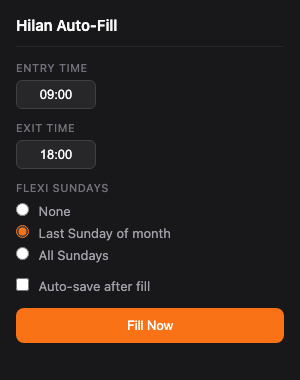
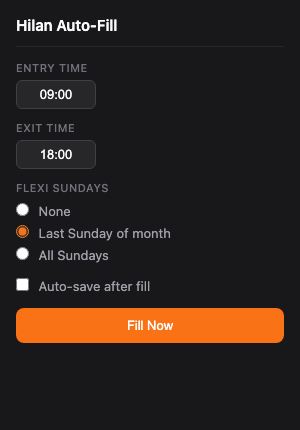
docs: fix screenshot alignment — equal dimensions, smaller display

diff --git a/README.md b/README.md
@@ -3,9 +3,9 @@
 A Chrome extension that auto-fills the Hilan attendance form with one click.
 
 <p align="center">
-  <img src="screenshots/popup-settings.png" alt="Extension popup" width="280">
-  &nbsp;&nbsp;&nbsp;
-  <img src="screenshots/popup-filled.png" alt="After filling" width="280">
+  <img src="screenshots/popup-settings.png" alt="Extension popup" width="240">
+  &nbsp;&nbsp;
+  <img src="screenshots/popup-filled.png" alt="After filling" width="240">
 </p>
 
 ## Features
